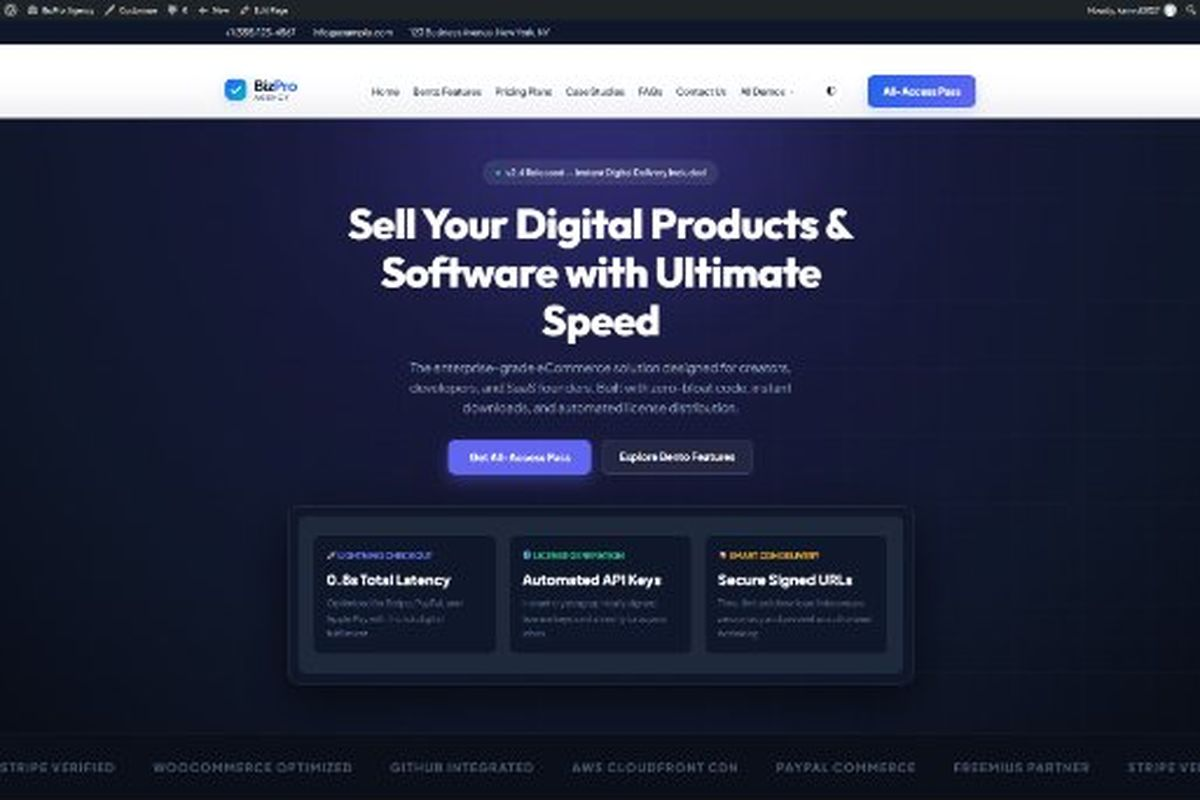
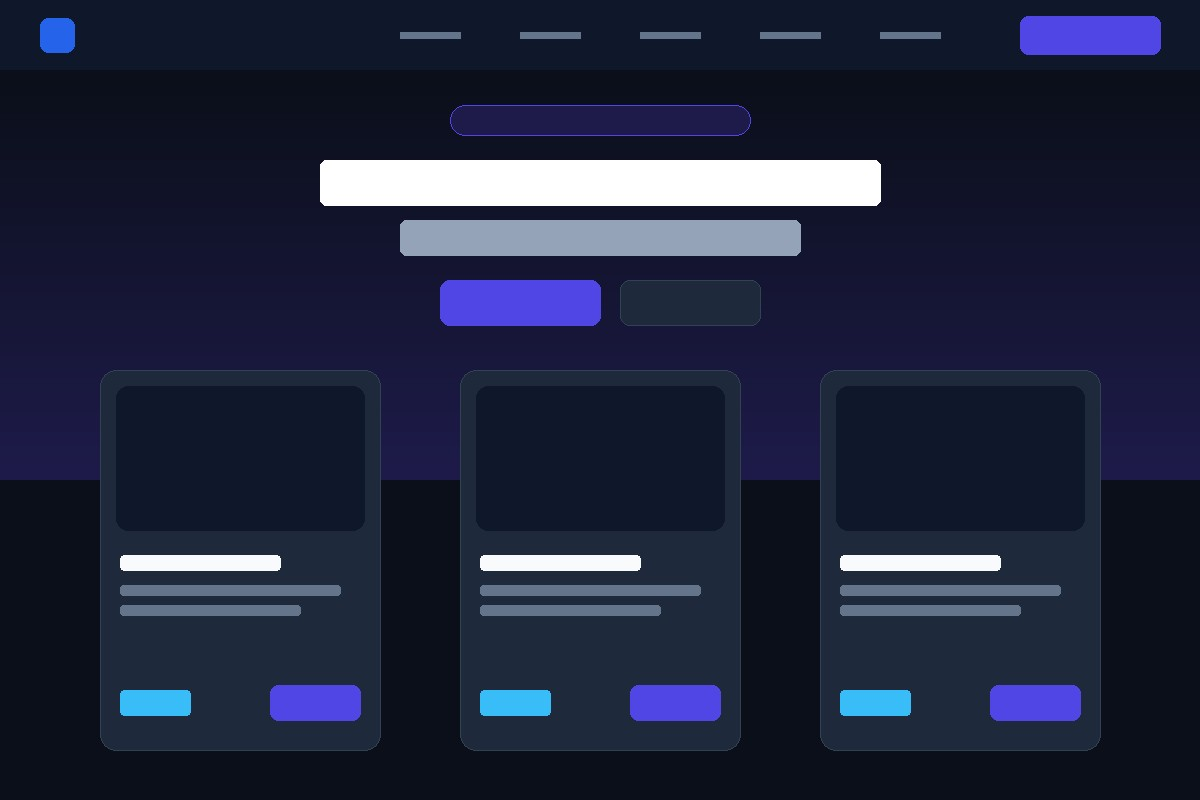
Fix: Scope Primary Area of Interest to active demo, enable 7 demos showcase section on homepage, and improve demo permalink resolution

diff --git a/inc/about-page.php b/inc/about-page.php
@@ -23,7 +23,7 @@ function bizpro_agency_about_menu() {
 		'bizpro_agency_about_page_render'
 	);
 }
-add_action( 'admin_menu', 'bizpro_agency_about_menu' );
+add_action( 'admin_menu', 'bizpro_agency_about_menu', 5 );
 
 /**
  * Render the welcome page content.
@@ -112,6 +112,13 @@ function bizpro_agency_about_page_render() {
 				$img_uri     = trailingslashit( get_template_directory_uri() ) . 'assets/images/demos/';
 				$admin_demos = array(
 					array(
+						'title' => 'Main Agency (Multi-Purpose)',
+						'niche' => 'All-in-One',
+						'badge' => 'Featured',
+						'url'   => home_url( '/' ),
+						'img'   => $img_uri . 'demo-main.jpg',
+					),
+					array(
 						'title' => 'Digital Products & SaaS Store',
 						'niche' => 'eCommerce',
 						'badge' => 'eCom',
@@ -126,7 +133,7 @@ function bizpro_agency_about_page_render() {
 						'img'   => $img_uri . 'demo-visa.jpg',
 					),
 					array(
-						'title' => 'Travel & Tour Operator',
+						'title' => 'Travel & Tour Agency',
 						'niche' => 'Tourism',
 						'badge' => 'New',
 						'url'   => bizpro_agency_page_url( 'home', 'travel' ),
@@ -147,18 +154,11 @@ function bizpro_agency_about_page_render() {
 						'img'   => $img_uri . 'demo-consulting.jpg',
 					),
 					array(
-						'title' => 'Corporate Enterprise & Governance',
+						'title' => 'Corporate Enterprise',
 						'niche' => 'Enterprise',
 						'badge' => 'Elite',
 						'url'   => bizpro_agency_page_url( 'home', 'corporate' ),
 						'img'   => $img_uri . 'demo-corporate.jpg',
-					),
-					array(
-						'title' => 'Main Agency (Flagship Multi-Purpose)',
-						'niche' => 'All-in-One',
-						'badge' => 'Popular',
-						'url'   => home_url( '/' ),
-						'img'   => $img_uri . 'demo-main.jpg',
 					),
 				);
 				?>

diff --git a/inc/demo-import.php b/inc/demo-import.php
@@ -100,14 +100,29 @@ function bizpro_agency_ocdi_import_files() {
 		if ( ! empty( $demo['requires'] ) && ! class_exists( 'WooCommerce' ) ) {
 			$notice .= ' ' . __( 'WooCommerce is not active yet: install and activate it before importing.', 'bizpro-agency' );
 		}
-		$files[] = array(
+		$local_xml = get_template_directory() . '/demo-data/' . $key . '/content.xml';
+		if ( ! file_exists( $local_xml ) && defined( 'BIZPRO_COMPANION_PATH' ) ) {
+			$comp_xml = BIZPRO_COMPANION_PATH . 'demo-data/' . $key . '/content.xml';
+			if ( file_exists( $comp_xml ) ) {
+				$local_xml = $comp_xml;
+			}
+		}
+
+		$file_data = array(
 			'import_file_name'         => $demo['name'],
 			'categories'               => $demo['cats'],
-			'local_import_file'        => get_template_directory() . '/demo-data/' . $key . '/content.xml',
 			'import_preview_image_url' => get_template_directory_uri() . '/assets/images/demos/' . $demo['image'],
 			'import_notice'            => $notice,
-			'preview_url'              => '',
+			'preview_url'              => 'https://plainplant.s2-tastewp.com/' . ( 'default' === $key ? '' : $key . '-agency/' ),
 		);
+
+		if ( file_exists( $local_xml ) ) {
+			$file_data['local_import_file'] = $local_xml;
+		} else {
+			$file_data['import_file_url'] = 'https://raw.githubusercontent.com/hunter277/bizpro-agency/main/demo-data/' . $key . '/content.xml';
+		}
+
+		$files[] = $file_data;
 	}
 	return $files;
 }

diff --git a/header.php b/header.php
@@ -80,6 +80,10 @@ if ( $bizpro_cta_url && 0 === strpos( $bizpro_cta_url, '#' ) ) {
 			<div class="site-branding">
 				<?php if ( has_custom_logo() ) : ?>
 					<?php the_custom_logo(); ?>
+				<?php elseif ( file_exists( get_template_directory() . '/assets/images/logo-wide.png' ) ) : ?>
+					<a href="<?php echo esc_url( home_url( '/' ) ); ?>" rel="home" class="site-brand-link" style="display: flex; align-items: center;">
+						<img src="<?php echo esc_url( get_template_directory_uri() . '/assets/images/logo-wide.png' ); ?>" alt="<?php bloginfo( 'name' ); ?>" style="max-height: 50px; width: auto; display: block;">
+					</a>
 				<?php else : ?>
 					<a href="<?php echo esc_url( home_url( '/' ) ); ?>" rel="home" class="site-brand-link">
 						<span class="site-brand-icon" aria-hidden="true">

diff --git a/inc/freemius/includes/managers/class-fs-admin-menu-manager.php b/inc/freemius/includes/managers/class-fs-admin-menu-manager.php
@@ -699,6 +699,10 @@
 				$menu = $this->find_main_submenu();
 			}
 
+			if ( ! is_array( $menu ) || ! isset( $menu['menu'] ) || ! is_array( $menu['menu'] ) || ! isset( $menu['menu'][2] ) ) {
+				return admin_url( 'themes.php?page=bizpro-agency-welcome' );
+			}
+
 			$menu_slug   = $menu['menu'][2];
 			$parent_slug = isset( $menu['parent_slug'] ) ?
 				$menu['parent_slug'] :

diff --git a/inc/freemius.php b/inc/freemius.php
@@ -43,6 +43,9 @@ if ( ! function_exists( 'bizpro_agency_fs' ) ) {
 						'is_org_compliant' => true,
 						'menu'             => array(
 							'slug'    => 'bizpro-agency-welcome',
+							'parent'  => array(
+								'slug' => 'themes.php',
+							),
 							'account' => true,
 							'support' => false,
 						),
